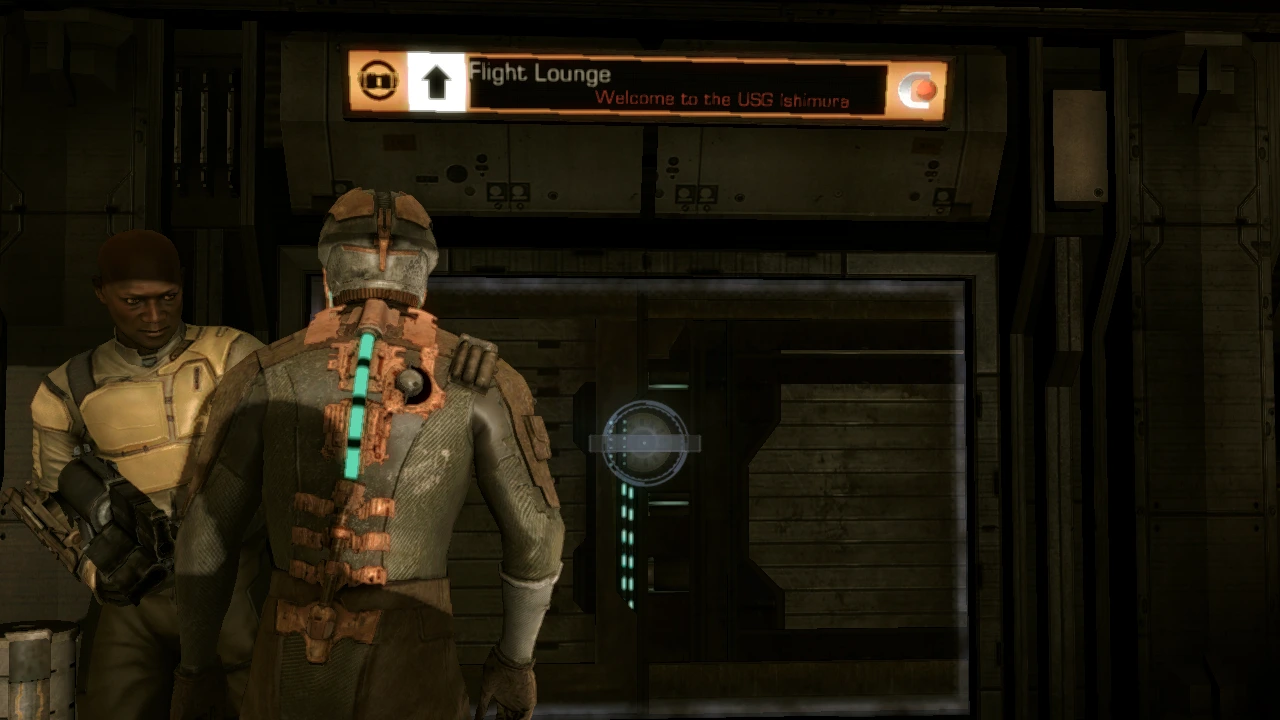
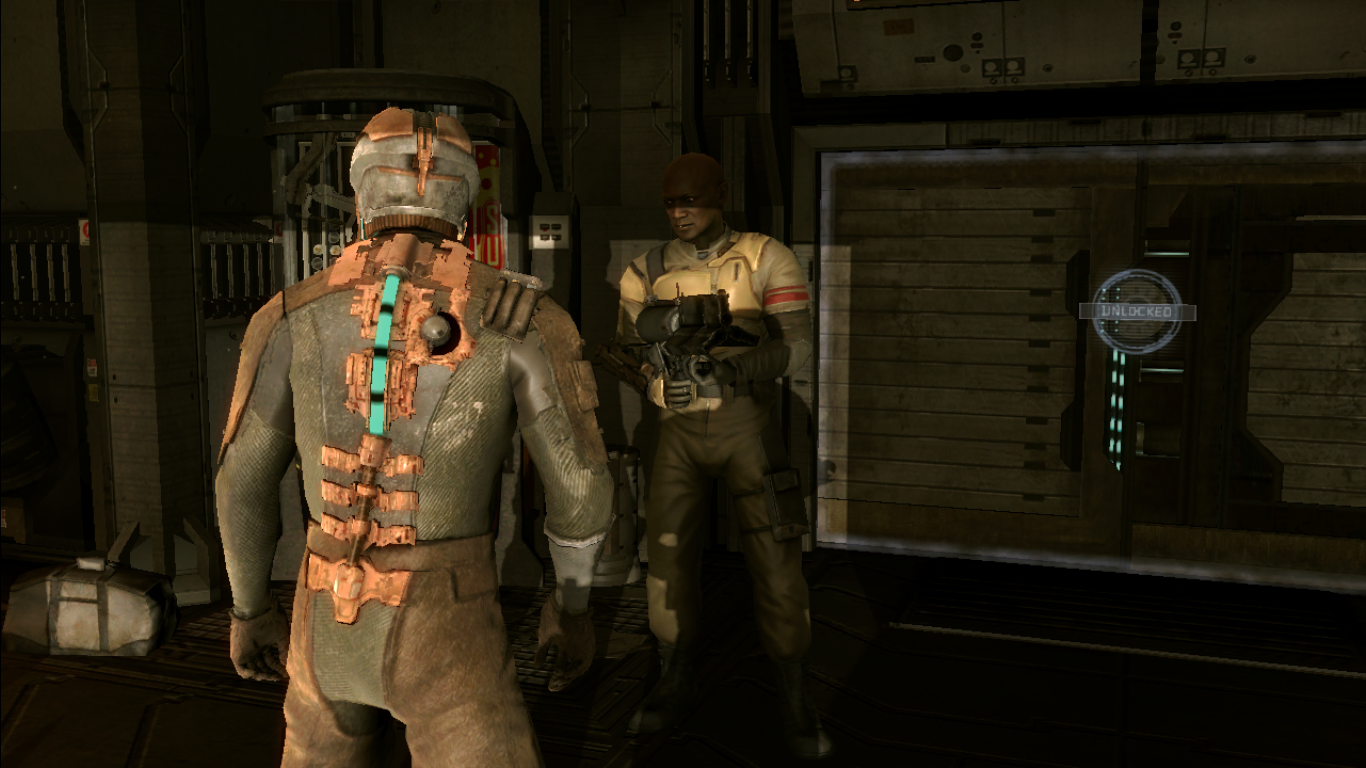
part 2 recoded. required to watch video now.

diff --git a/projects/work 1/Deadspace (2008)/css/deadspace_mobile.css b/projects/work 1/Deadspace (2008)/css/deadspace_mobile.css
@@ -89,23 +89,14 @@ p.mono.lefttitle {
 }
 /*WEBP IMAGES ON PROLOGUE END*/
 /*WEBP IMAGES ON PART 1*/
-.static-0_1 {
-  background-image: url(../img/part_1/0_static_1.png);
-}
-.static-0_2 {
-  background-image: url(../img/part_1/0_static_2.png);
-}
-.static-0_3 {
-  background-image: url(../img/part_1/0_static_3.png);
-}
 .static-0_4 {
-  background-image: url(../img/part_1/0_static_4.png);
+  background-image: url(../img/part_1/0_static_4.webp);
 }
 .static-0_5 {
-  background-image: url(../img/part_1/0_static_5.png);
+  background-image: url(../img/part_1/0_static_5.webp);
 }
 .static-0_6 {
-  background-image: url(../img/part_1/0_static_6.png);
+  background-image: url(../img/part_1/0_static_6.webp);
 }
 .nicole_1  {
   background-image: url(../img/part_1/nicole_1.webp);
@@ -365,58 +356,58 @@ div.asteroids {
   background-image: url(../img/part_2/1_helmet_5.webp);
 }
 .rigfill-2_0 {
-  background-image: url(../img/part_2/2_rigfill_0.png);
+  background-image: url(../img/part_2/2_rigfill_0.webp);
 }
 .rigfill-2_1 {
-  background-image: url(../img/part_2/2_rigfill_1.png);
+  background-image: url(../img/part_2/2_rigfill_1.webp);
 }
 .rigfill-2_2 {
-  background-image: url(../img/part_2/2_rigfill_2.png);
+  background-image: url(../img/part_2/2_rigfill_2.webp);
 }
 .rigfill-2_3 {
-  background-image: url(../img/part_2/2_rigfill_3.png);
+  background-image: url(../img/part_2/2_rigfill_3.webp);
 }
 .rigfill-2_4 {
-  background-image: url(../img/part_2/2_rigfill_4.png);
+  background-image: url(../img/part_2/2_rigfill_4.webp);
 }
 .rigfill-2_5 {
-  background-image: url(../img/part_2/2_rigfill_5.png);
+  background-image: url(../img/part_2/2_rigfill_5.webp);
 }
 .rigfill-2_6 {
-  background-image: url(../img/part_2/2_rigfill_6.png);
+  background-image: url(../img/part_2/2_rigfill_6.webp);
 }
 .rigfill-2_7 {
-  background-image: url(../img/part_2/2_rigfill_7.png);
+  background-image: url(../img/part_2/2_rigfill_7.webp);
 }
 .rigfill-2_8 {
-  background-image: url(../img/part_2/2_rigfill_8.png);
+  background-image: url(../img/part_2/2_rigfill_8.webp);
 }
 .rigfill-2_9 {
-  background-image: url(../img/part_2/2_rigfill_9.png);
+  background-image: url(../img/part_2/2_rigfill_9.webp);
 }
 .uniform-3_0 {
-  background-image: url(../img/part_2/3_uniform_0.png);
+  background-image: url(../img/part_2/3_uniform_0.webp);
 }
 .uniform-3_1 {
-  background-image: url(../img/part_2/3_uniform_1.png);
+  background-image: url(../img/part_2/3_uniform_1.webp);
 }
 .uniform-3_2 {
-  background-image: url(../img/part_2/3_uniform_2.png);
+  background-image: url(../img/part_2/3_uniform_2.webp);
 }
 .uniform-3_3 {
-  background-image: url(../img/part_2/3_uniform_3.png);
+  background-image: url(../img/part_2/3_uniform_3.webp);
 }
 .uniform-3_4 {
-  background-image: url(../img/part_2/3_uniform_4.png);
+  background-image: url(../img/part_2/3_uniform_4.webp);
 }
 .bridge-4_0 {
-    background-image: url(../img/part_2/4_bridge_0.png);
+    background-image: url(../img/part_2/4_bridge_0.webp);
 }
 .bridge-4_1 {
-    background-image: url(../img/part_2/4_bridge_1.png);
+    background-image: url(../img/part_2/4_bridge_1.webp);
 }
 .bridge-4_2 {
-    background-image: url(../img/part_2/4_bridge_2.png);
+    background-image: url(../img/part_2/4_bridge_2.webp);
 }
 .bridge-4_3 {
     background-image: url(../img/part_2/4_bridge_3.webp);
@@ -431,25 +422,22 @@ div.asteroids {
     background-image: url(../img/part_2/4_bridge_6.webp);
 }
 .bridge-4_7 {
-    background-image: url(../img/part_2/4_bridge_7.png);
+    background-image: url(../img/part_2/4_bridge_7.webp);
 }
 .bridge-4_8 {
-    background-image: url(../img/part_2/4_bridge_8.png);
+    background-image: url(../img/part_2/4_bridge_8.webp);
 }
 .bridge-4_9 {
-    background-image: url(../img/part_2/4_bridge_9.png);
+    background-image: url(../img/part_2/4_bridge_9.webp);
 }
 .bridge-4_10 {
     background-image: url(../img/part_2/4_bridge_10.webp);
 }
 .bridge-4_11 {
-    background-image: url(../img/part_2/4_bridge_11.png);
+    background-image: url(../img/part_2/4_bridge_11.webp);
 }
 .bridge-4_12 {
-    background-image: url(../img/part_2/4_bridge_12.png);
-}
-.lounge-5_0 {
-    background-image: url(../img/part_2/5_lounge_0.png);
+    background-image: url(../img/part_2/4_bridge_12.webp);
 }
 .lounge-6_0 {
   background-image: url(../img/part_2/6_0.webp);
@@ -463,72 +451,75 @@ div.asteroids {
 .lounge-6_3 {
   background-image: url(../img/part_2/6_3.webp);
 }
+.lounge-5_0 {
+    background-image: url(../img/part_2/5_lounge_0.webp);
+}
 .lounge-5_1 {
-    background-image: url(../img/part_2/5_lounge_1.png);
+    background-image: url(../img/part_2/5_lounge_1.webp);
 }
 .lounge-5_2 {
-    background-image: url(../img/part_2/5_lounge_2.png);
+    background-image: url(../img/part_2/5_lounge_2.webp);
 }
 .lounge-5_3 {
-    background-image: url(../img/part_2/5_lounge_3.png);
+    background-image: url(../img/part_2/5_lounge_3.webp);
 }
 .lounge-5_4 {
-    background-image: url(../img/part_2/5_lounge_4.png);
+    background-image: url(../img/part_2/5_lounge_4.webp);
 }
 .lounge-5_5 {
-    background-image: url(../img/part_2/5_lounge_5.png);
+    background-image: url(../img/part_2/5_lounge_5.webp);
 }
 .lounge-5_6 {
-    background-image: url(../img/part_2/5_lounge_6.png);
+    background-image: url(../img/part_2/5_lounge_6.webp);
 }
 .lounge-5_7 {
-    background-image: url(../img/part_2/5_lounge_7.png);
+    background-image: url(../img/part_2/5_lounge_7.webp);
 }
 .lounge-5_8 {
-    background-image: url(../img/part_2/5_lounge_8.png);
+    background-image: url(../img/part_2/5_lounge_8.webp);
 }
 .lounge-5_9 {
-    background-image: url(../img/part_2/5_lounge_9.png);
+    background-image: url(../img/part_2/5_lounge_9.webp);
 }
 .lounge-5_10 {
-    background-image: url(../img/part_2/5_lounge_10.png);
+    background-image: url(../img/part_2/5_lounge_10.webp);
 }
 .lounge-5_11 {
-    background-image: url(../img/part_2/5_lounge_11.png);
+    background-image: url(../img/part_2/5_lounge_11.webp);
 }
 .lounge-5_12 {
-    background-image: url(../img/part_2/5_lounge_12.png);
+    background-image: url(../img/part_2/5_lounge_12.webp);
 }
 .blood-6_0 {
-    background-image: url(../img/part_2/6_blood_0.png);
+    background-image: url(../img/part_2/6_blood_0.webp);
 }
 .blood-6_1 {
-    background-image: url(../img/part_2/6_blood_1.png);
+    background-image: url(../img/part_2/6_blood_1.webp);
 }
 .blood-6_2 {
-    background-image: url(../img/part_2/6_blood_2.png);
+    background-image: url(../img/part_2/6_blood_2.webp);
 }
 .blood-6_3 {
-    background-image: url(../img/part_2/6_blood_3.png);
+    background-image: url(../img/part_2/6_blood_3.webp);
 }
 .blood-6_4 {
-    background-image: url(../img/part_2/6_blood_4.png);
+    background-image: url(../img/part_2/6_blood_4.webp);
 }
 .blood-6_5 {
-    background-image: url(../img/part_2/6_blood_5.png);
+    background-image: url(../img/part_2/6_blood_5.webp);
 }
 .blood-6_6 {
-    background-image: url(../img/part_2/6_blood_6.png);
+    background-image: url(../img/part_2/6_blood_6.webp);
 }
 .blood-6_7 {
-    background-image: url(../img/part_2/6_blood_7.png);
+    background-image: url(../img/part_2/6_blood_7.webp);
 }
 .blood-6_8 {
-    background-image: url(../img/part_2/6_blood_8.png);
+    background-image: url(../img/part_2/6_blood_8.webp);
 }
 .blood-6_9 {
-    background-image: url(../img/part_2/6_blood_9.png);
+    background-image: url(../img/part_2/6_blood_9.webp);
 }
 .blood-6_10 {
-    background-image: url(../img/part_2/6_blood_10.png);
+    background-image: url(../img/part_2/6_blood_10.webp);
 }

diff --git a/projects/work 1/Deadspace (2008)/pages/deadspace_part_2.html b/projects/work 1/Deadspace (2008)/pages/deadspace_part_2.html
@@ -251,7 +251,7 @@
     <div class=""
     onpointerenter="
       show_section(1);
-      document.getElementById('section-1').scrollIntoView({behavior:'smooth'});
+      document.getElementsByClassName('bridge-4_1')[0].scrollIntoView({behavior:'smooth'});
       play_music('ambient_ishimura');
       pause_music('ambient_lounge');
       pause_music('ambient_heartbeat');
@@ -330,7 +330,7 @@
     </div>
     <div class="hint-container">
       <sub>
-        scroll up to the sensor if video does not play.
+        watch the video to proceed.
       </sub>
     </div>
     <div style="height: auto;" class="top-bottom-mask" >
@@ -338,11 +338,18 @@
       id="welcome_video"
       src="../videos/Part 2/Welcome Aboard.mp4"
       width="100%"
-      height="fit-content">
+      height="fit-content"
+      controls
+        onended="
+        show_section(2);
+        document.getElementsByClassName('bridge-4_7')[0].scrollIntoView({behavior:'smooth'});
+        ">
     </video>
     </div>
-    <!--EMPTYDIV-->
-    <div class="">
+    </section>
+
+    <section id="section-2">
+    <div class="half">
     </div>
     <!--welcome video end-->
     <div class="centertitle parallax bridge-4_7 top-bottom-mask">
@@ -361,8 +368,8 @@
           scroll right to see full image.
       </sub>
     </div>
-    <div class="image-horizontal-scroll-fix top-bottom-mask">
-      <img width="1280" src="../videos/Part 2/ishimura.webp" alt="USG Ishimura nameplate">
+    <div class="image-horizontal-scroll-fix image-full-height top-bottom-mask">
+      <img width="1280px" src="../videos/Part 2/ishimura.webp" alt="USG Ishimura nameplate">
         <p class="lefttitle mono ishimura-etymology-fix">
           Aptly named after Hideki Ishimura,<br>
           the creator of the ShockPoint Drive.
@@ -440,9 +447,9 @@
         <area shape="circle" coords="395, 245,115" href="#lounge" alt="Door pad hologram"
         id="lounge_area" style="cursor: pointer;"
         onclick="
-        show_section(2);
+        show_section(3);
         hide_div('door_pad_lounge');
-        document.getElementById('section-2').scrollIntoView({behavior:'smooth'});
+        document.getElementsByClassName('lounge-6_1')[0].scrollIntoView({behavior:'smooth'});
         play_music('effect_doors');
         welcome_video.pause();
         pause_music('ambient_heartbeat');
@@ -451,7 +458,7 @@
     </div>
     </section>
 
-    <section id="section-2"
+    <section id="section-3"
     onpointerenter="
     play_music('ambient_lounge');
     pause_music('ambient_heartbeat');
@@ -594,16 +601,16 @@
       <area shape="circle" coords="400, 230,160" 
       href="#security" id="security_area" alt=""
       onclick="
-      show_section(3);
+      show_section(4);
       hide_div('door_pad_security');
       show_next_button();
       play_music('effect_doors');
-      document.getElementById('section-3').scrollIntoView({behavior:'smooth'});">
+      document.getElementsByClassName('blood-6_1')[0].scrollIntoView({behavior:'smooth'});">
     </map>
   </div>
     </section>
 
-    <section id="section-3" 
+    <section id="section-4" 
     onpointerenter="
     play_music('ambient_heartbeat');
     pause_music('ambient_ishimura');

diff --git a/projects/work 1/Deadspace (2008)/css/deadspace_common.css b/projects/work 1/Deadspace (2008)/css/deadspace_common.css
@@ -79,7 +79,6 @@ p.mono {
   text-align: center;
   justify-content: center;
   align-items: center;
-  /background-color: rgba(10, 10, 10, 0.9) ;
   background-color: #000000;
   overflow-y: auto;
   max-height: 70px; 
@@ -89,13 +88,11 @@ p.mono {
 
 p.panic_mono
 {
-  /outline: 1px dashed rgb(148, 0, 0);
   outline-offset: 2px;
   border: 1px solid maroon;
   background-color: rgb(100, 0, 0) !important;
   color: white;
   font-weight: bold;
-  /text-transform: uppercase;
 }
 
 .is_panic p
@@ -122,7 +119,6 @@ div.whited p.mono {
 }
 div.parallax p.mono {
   border-bottom: none;
-  /background-color: rgba(10, 10, 10, 0.9);
 }
 /*Text location*/
 p.righttitle {
